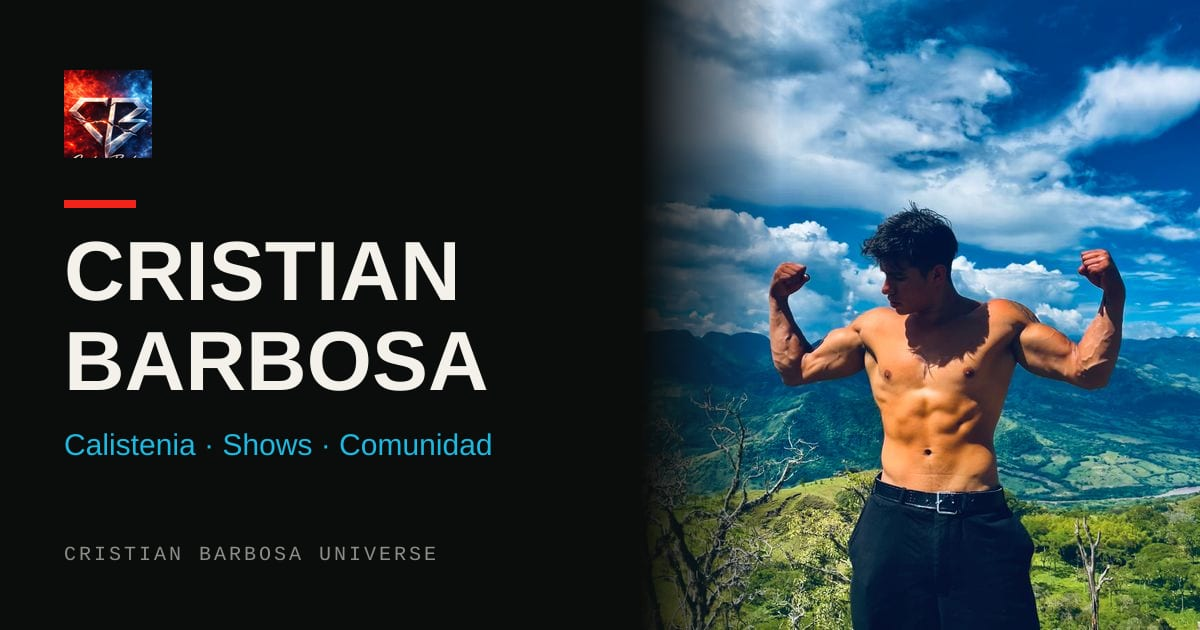
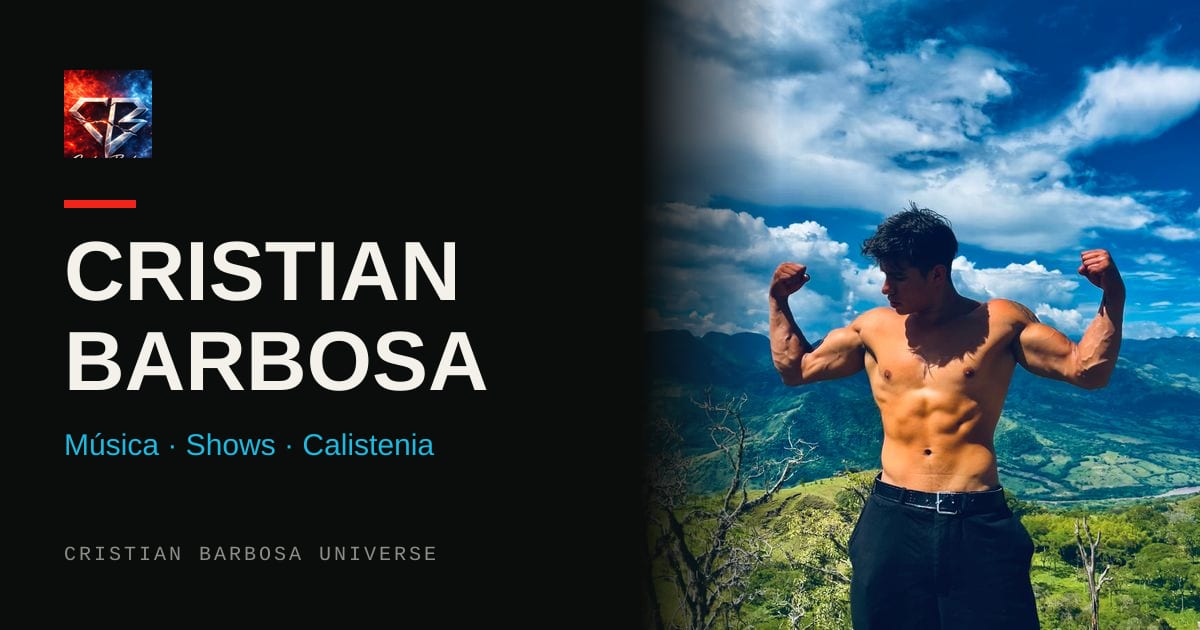
SEO: lead with music/shows/content, link social profiles for Google
Cristian's feedback on the first pass (2026-09-24): he doesn't want to
be known as "entrenador" — he wants to be found for his music, his
shows and the content he publishes.

- Site description, Person jobTitle/knowsAbout, home/about titles and
  the share image's tagline now lead with música, shows and content,
  calistenia as the discipline behind them. /musica gets a proper
  search title ("Música de Cristian Barbosa — lanzamientos y canciones").
- sameAs: the homepage now publishes his real public profiles
  (Instagram, TikTok x2, YouTube, Facebook x2, X, LinkedIn) in the
  Person JSON-LD, so Google can tie this site and those accounts to one
  person. Read from social_profile (the single source of truth, per
  docs/SOCIAL_ROUTING.md), only category='social' rows — never a
  WhatsApp group or donation link — with seed placeholders dropped and
  share-tracking params/mobile hosts normalized
  (src/lib/structuredData.ts, tested).
- The homepage stays cached: ISR, revalidated hourly, and a DB failure
  only drops sameAs, never the page. Same direct server-component read
  /redes already does. Verified against a local seeded Postgres: build
  completes, the rendered homepage carries the expected 8 profile URLs
  (matching production's social_profile rows, checked read-only).

Claude-Session: https://claude.ai/code/session_014Duxkmp3N8LcQ6znebKz4m

Changed region(s): [[0.0308, 0.6635, 0.4317, 0.7238]]

diff --git a/src/lib/structuredData.ts b/src/lib/structuredData.ts
@@ -1,0 +1,71 @@
+import { siteConfig } from "@/config/site";
+import type { SocialProfile } from "@/types/crm";
+
+/**
+ * Structured data (schema.org JSON-LD) Google reads to understand who
+ * Cristian is and what this site is called — the "knowledge panel" and
+ * site-name signals. Only facts already stated on the site or confirmed
+ * by Cristian: he wants to be known first for his music, his shows and
+ * the content he publishes (2026-09-24), with calistenia as the
+ * discipline behind all three — not "entrenador".
+ */
+
+export const personId = `${siteConfig.url}/#person`;
+
+export function personJsonLd(sameAs: string[] = []) {
+  return {
+    "@context": "https://schema.org",
+    "@type": "Person",
+    "@id": personId,
+    name: siteConfig.name,
+    url: siteConfig.url,
+    image: new URL("/opengraph-image.jpg", siteConfig.url).toString(),
+    description: siteConfig.description,
+    jobTitle: "Artista, performer y creador de contenido",
+    nationality: { "@type": "Country", name: "Colombia" },
+    knowsAbout: ["Música", "Shows en vivo", "Creación de contenido", "Calistenia"],
+    ...(sameAs.length > 0 ? { sameAs } : {}),
+  };
+}
+
+export function websiteJsonLd() {
+  return {
+    "@context": "https://schema.org",
+    "@type": "WebSite",
+    name: siteConfig.name,
+    alternateName: siteConfig.universeName,
+    url: siteConfig.url,
+    inLanguage: "es",
+    publisher: { "@id": personId },
+  };
+}
+
+/**
+ * The `sameAs` list: Cristian's own public profiles, so Google can tie
+ * this site and his Instagram/TikTok/YouTube/etc. to the same person.
+ * Only `category = 'social'` rows — never a WhatsApp chat, a community
+ * group or a donation link, which aren't "this person's profile". Rows
+ * still holding a seed placeholder (a bare "https://instagram.com/" with
+ * no handle) are dropped rather than published as a fake identity link.
+ * Query strings (share-tracking params like `?igsi=`) are stripped, and
+ * a mobile host ("m.youtube.com", what a phone's share button copies)
+ * becomes "www." so Google sees the canonical profile URL.
+ */
+export function toSameAs(profiles: SocialProfile[]): string[] {
+  const urls = new Set<string>();
+  for (const profile of profiles) {
+    if (profile.category !== "social") continue;
+    let parsed: URL;
+    try {
+      parsed = new URL(profile.url);
+    } catch {
+      continue;
+    }
+    if (parsed.protocol !== "https:" && parsed.protocol !== "http:") continue;
+    const path = parsed.pathname.replace(/\/+$/, "");
+    if (path === "" || path === "/@") continue;
+    const host = parsed.hostname.replace(/^m\./, "www.");
+    urls.add(`https://${host}${path}`);
+  }
+  return [...urls];
+}

diff --git a/src/lib/structuredData.test.ts b/src/lib/structuredData.test.ts
@@ -1,0 +1,67 @@
+import { describe, it, expect } from "vitest";
+import { personJsonLd, toSameAs } from "./structuredData";
+import type { SocialProfile } from "@/types/crm";
+
+function profile(overrides: Partial<SocialProfile>): SocialProfile {
+  return {
+    id: "1",
+    slug: "x",
+    platform: "instagram",
+    label: "Instagram",
+    url: "https://www.instagram.com/someone",
+    active: true,
+    displayOrder: 1,
+    category: "social",
+    ...overrides,
+  };
+}
+
+describe("toSameAs", () => {
+  it("keeps real social profiles and strips tracking query strings", () => {
+    expect(
+      toSameAs([
+        profile({ url: "https://www.instagram.com/someone/?igsi=abc&utm_source=qr" }),
+        profile({ platform: "twitter", url: "https://x.com/someone" }),
+      ]),
+    ).toEqual(["https://www.instagram.com/someone", "https://x.com/someone"]);
+  });
+
+  it("drops WhatsApp, community and donation links — not identity profiles", () => {
+    expect(
+      toSameAs([
+        profile({ category: "community", url: "https://chat.whatsapp.com/abc" }),
+        profile({ category: "commercial", url: "https://wa.me/message/abc" }),
+        profile({ category: "support", url: "https://www.paypal.com/donate/?id=1" }),
+      ]),
+    ).toEqual([]);
+  });
+
+  it("drops seed placeholders with no handle", () => {
+    expect(
+      toSameAs([profile({ url: "https://instagram.com/" }), profile({ url: "https://tiktok.com/@" })]),
+    ).toEqual([]);
+  });
+
+  it("turns a mobile share host into the canonical www one", () => {
+    expect(toSameAs([profile({ platform: "youtube", url: "https://m.youtube.com/channel/abc" })])).toEqual([
+      "https://www.youtube.com/channel/abc",
+    ]);
+  });
+
+  it("dedupes and skips unparseable URLs", () => {
+    expect(
+      toSameAs([
+        profile({ url: "https://x.com/someone" }),
+        profile({ url: "https://x.com/someone/" }),
+        profile({ url: "not a url" }),
+      ]),
+    ).toEqual(["https://x.com/someone"]);
+  });
+});
+
+describe("personJsonLd", () => {
+  it("omits sameAs entirely when there are no profiles", () => {
+    expect(personJsonLd()).not.toHaveProperty("sameAs");
+    expect(personJsonLd(["https://x.com/someone"]).sameAs).toEqual(["https://x.com/someone"]);
+  });
+});

diff --git a/src/app/page.tsx b/src/app/page.tsx
@@ -6,9 +6,12 @@ import { Reveal } from "@/components/ui/Reveal";
 import { InstagramEmbed } from "@/components/ui/InstagramEmbed";
 import { navItems, siteConfig } from "@/config/site";
 import { buildMetadata } from "@/lib/seo";
+import { personJsonLd, toSameAs } from "@/lib/structuredData";
+import { getPool } from "@/server/db/pool";
+import { listActiveSocialProfiles } from "@/server/db/repositories/socialProfile";
 
 export const metadata: Metadata = buildMetadata({
-  title: `${siteConfig.name} — Calistenia, shows y comunidad`,
+  title: `${siteConfig.name} — Música, shows y calistenia`,
   absoluteTitle: true,
   description: siteConfig.description,
   path: "/",
@@ -32,9 +35,39 @@ const tickerWords = [
  * label — so a new route added to site.ts shows up here framed as an
  * intention automatically, never a second copy to maintain.
  */
-export default function HomePage() {
+// Regenerated at most hourly (ISR), not per request: the only DB read
+// here is the social-profile list for Google's `sameAs` below, which
+// changes rarely — the page itself stays a cached static page. Same
+// direct server-component read /redes already does (its own comment
+// explains the exception to the Route Handler rule).
+export const revalidate = 3600;
+
+/**
+ * Cristian's public profiles, for the Person structured data's `sameAs`
+ * (src/lib/structuredData.ts). Never allowed to break the homepage: a
+ * missing/unreachable database (a build without DATABASE_URL, an outage)
+ * just means no `sameAs` this round — the layout's base Person block
+ * still ships.
+ */
+async function loadSameAs(): Promise<string[]> {
+  try {
+    return toSameAs(await listActiveSocialProfiles(getPool()));
+  } catch {
+    return [];
+  }
+}
+
+export default async function HomePage() {
+  const sameAs = await loadSameAs();
+
   return (
     <>
+      {sameAs.length > 0 && (
+        <script
+          type="application/ld+json"
+          dangerouslySetInnerHTML={{ __html: JSON.stringify(personJsonLd(sameAs)) }}
+        />
+      )}
       {/* Logo watermarked into the hero background — same technique
           Cristian approved on /bienvenida/[slug] ("como si perdiera
           transparencia"), reused here on the homepage hero per his

diff --git a/src/app/layout.tsx b/src/app/layout.tsx
@@ -5,6 +5,7 @@ import { Header } from "@/components/layout/Header";
 import { Footer } from "@/components/layout/Footer";
 import { PageViewTracker } from "@/components/analytics/PageViewTracker";
 import { siteConfig } from "@/config/site";
+import { personJsonLd, websiteJsonLd } from "@/lib/structuredData";
 import "./globals.css";
 
 const bigShoulders = Big_Shoulders({
@@ -35,35 +36,6 @@ export const metadata: Metadata = {
   creator: siteConfig.name,
 };
 
-// Structured data Google reads to build a knowledge panel / site name:
-// who Cristian is (Person) and what this site is called (WebSite). Only
-// facts already stated on the site — no invented awards, locations or
-// profiles. `sameAs` (his social profiles) is deliberately left out:
-// those URLs live only in the `social_profile` table
-// (docs/SOCIAL_ROUTING.md), and this layout never queries the database.
-const personJsonLd = {
-  "@context": "https://schema.org",
-  "@type": "Person",
-  "@id": `${siteConfig.url}/#person`,
-  name: siteConfig.name,
-  url: siteConfig.url,
-  image: new URL("/opengraph-image.jpg", siteConfig.url).toString(),
-  description: siteConfig.description,
-  jobTitle: "Atleta de calistenia, entrenador y artista",
-  nationality: { "@type": "Country", name: "Colombia" },
-  knowsAbout: ["Calistenia", "Entrenamiento", "Shows en vivo", "Música"],
-};
-
-const websiteJsonLd = {
-  "@context": "https://schema.org",
-  "@type": "WebSite",
-  name: siteConfig.name,
-  alternateName: siteConfig.universeName,
-  url: siteConfig.url,
-  inLanguage: "es",
-  publisher: { "@id": `${siteConfig.url}/#person` },
-};
-
 export default function RootLayout({ children }: LayoutProps<"/">) {
   return (
     <html
@@ -73,7 +45,7 @@ export default function RootLayout({ children }: LayoutProps<"/">) {
       <body className="flex min-h-full flex-col bg-ink text-chalk">
         <script
           type="application/ld+json"
-          dangerouslySetInnerHTML={{ __html: JSON.stringify([personJsonLd, websiteJsonLd]) }}
+          dangerouslySetInnerHTML={{ __html: JSON.stringify([personJsonLd(), websiteJsonLd()]) }}
         />
         <Suspense fallback={null}>
           <PageViewTracker />

diff --git a/src/config/site.ts b/src/config/site.ts
@@ -12,7 +12,7 @@ export const siteConfig = {
   universeName: "CRISTIAN BARBOSA UNIVERSE",
   tagline: "Atleta, artista, entrenador — un universo, muchas formas de entrar.",
   description:
-    "Cristian Barbosa: atleta de calistenia, entrenador y artista colombiano. Entrena con él, únete a la comunidad, contrata un show o escucha su música.",
+    "Cristian Barbosa: artista, performer y creador de contenido colombiano. Escucha su música, contrata un show en vivo de calistenia o síguelo en redes.",
   // Read through src/lib/env.ts's validated export, not process.env
   // directly (AGENTS.md's own rule) — the previous direct read bypassed
   // zod's validation/default entirely and broke the Vercel production

diff --git a/src/app/musica/page.tsx b/src/app/musica/page.tsx
@@ -6,8 +6,10 @@ import { buildMetadata } from "@/lib/seo";
 import { formatCents } from "@/lib/format";
 
 export const metadata: Metadata = buildMetadata({
-  title: "Música",
-  description: "El lado artístico de Cristian Barbosa: lanzamientos, backstage y acceso anticipado.",
+  title: "Música de Cristian Barbosa — lanzamientos y canciones",
+  absoluteTitle: true,
+  description:
+    "La música de Cristian Barbosa: lanzamientos, la historia detrás de cada canción, backstage y acceso anticipado.",
   path: "/musica",
 });
 

diff --git a/src/app/about/page.tsx b/src/app/about/page.tsx
@@ -7,7 +7,7 @@ import { buildMetadata } from "@/lib/seo";
 import { navItems } from "@/config/site";
 
 export const metadata: Metadata = buildMetadata({
-  title: "Historia de Cristian Barbosa — atleta de calistenia y artista",
+  title: "Historia de Cristian Barbosa — artista, shows y calistenia",
   absoluteTitle: true,
   description:
     "Quién es Cristian Barbosa: de entrenar calistenia en una barra a construir una comunidad, llevar la disciplina a un escenario y hacer música.",
